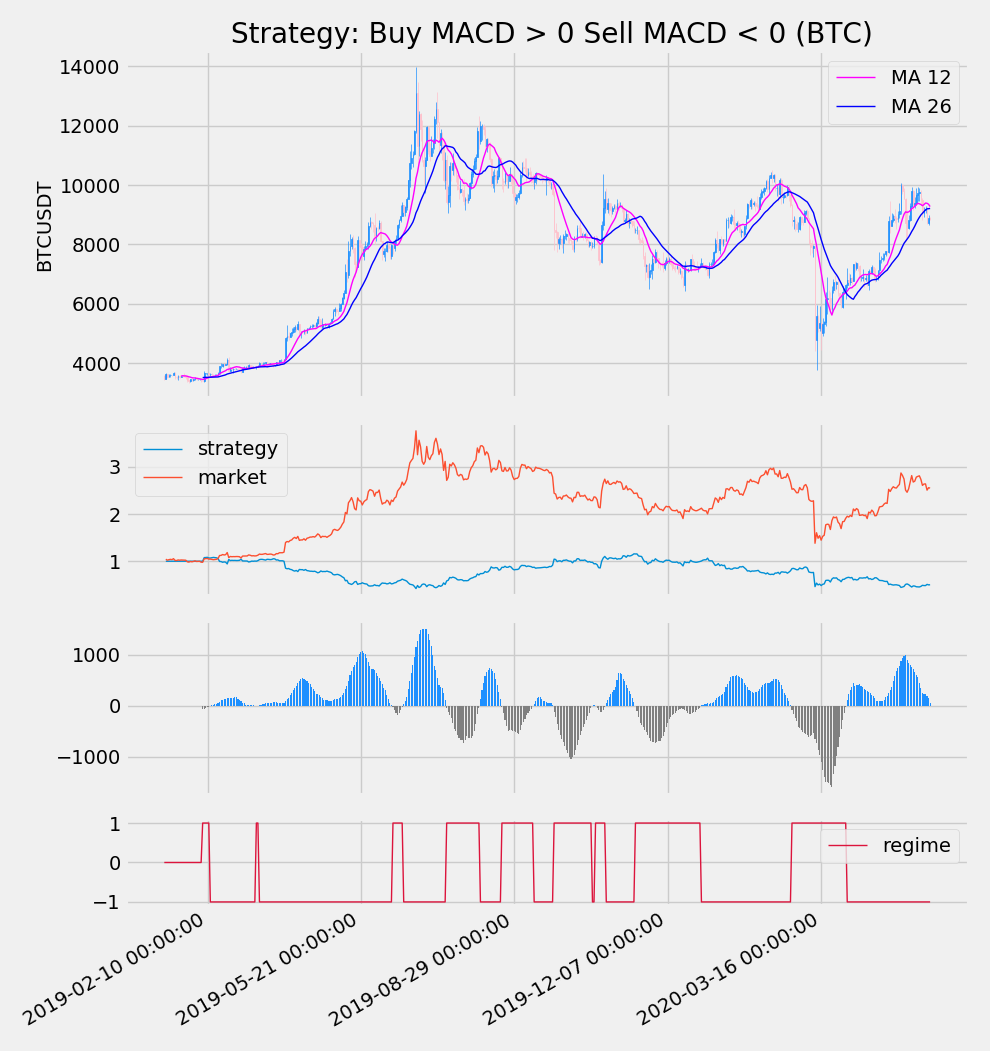
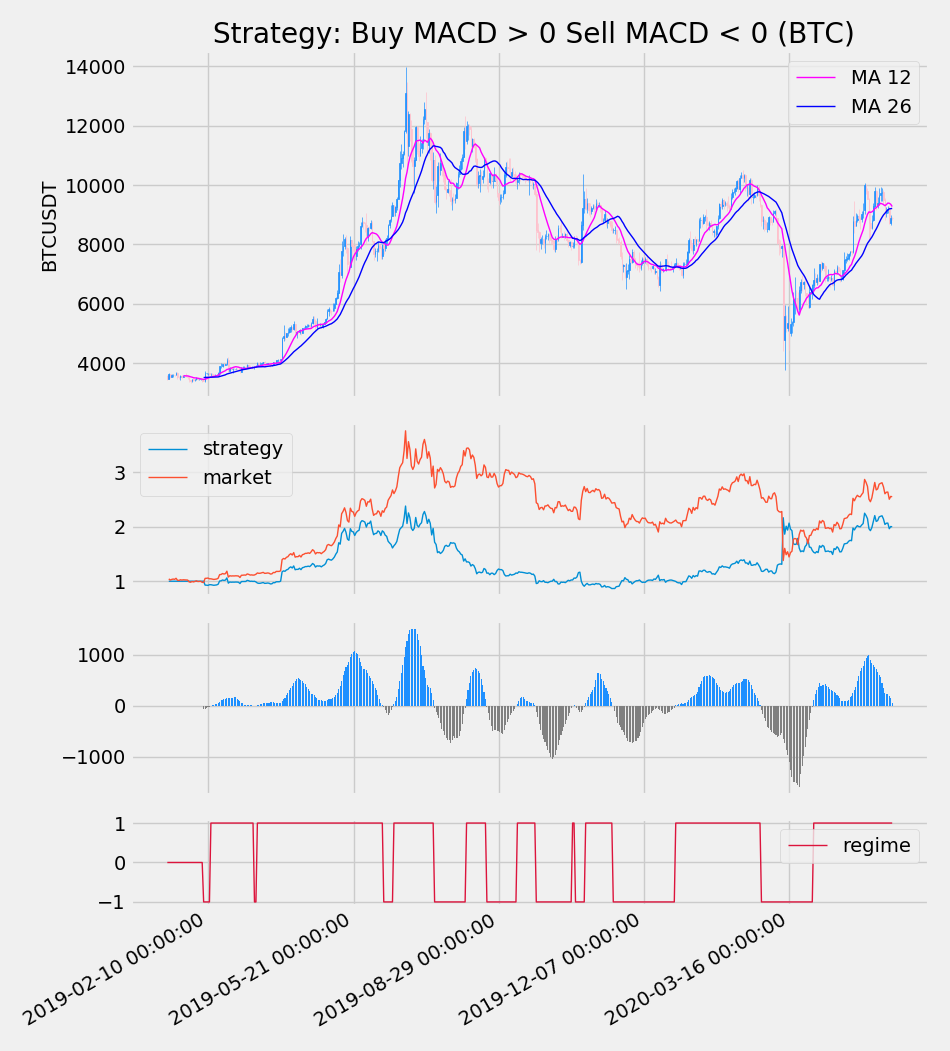
correct buylowsellhigh strat blunder; should be (np.where(MACD > SD,1,0)

diff --git a/backtest_simple.py b/backtest_simple.py
@@ -118,8 +118,8 @@ dM = np.array([(MACD[i] - MACD[i-1]) for i in range(len(MACD))])
 
 if args["strategy"] is 'buylowsellhigh':
 
-    hist_data['regime'] = np.where(MACD < SD,1,0)
-    hist_data['regime'] = np.where(MACD > -SD,-1,hist_data['regime'])
+    hist_data['regime'] = np.where(MACD > SD,1,0)
+    hist_data['regime'] = np.where(MACD < -SD,-1,hist_data['regime'])
 
 
 
